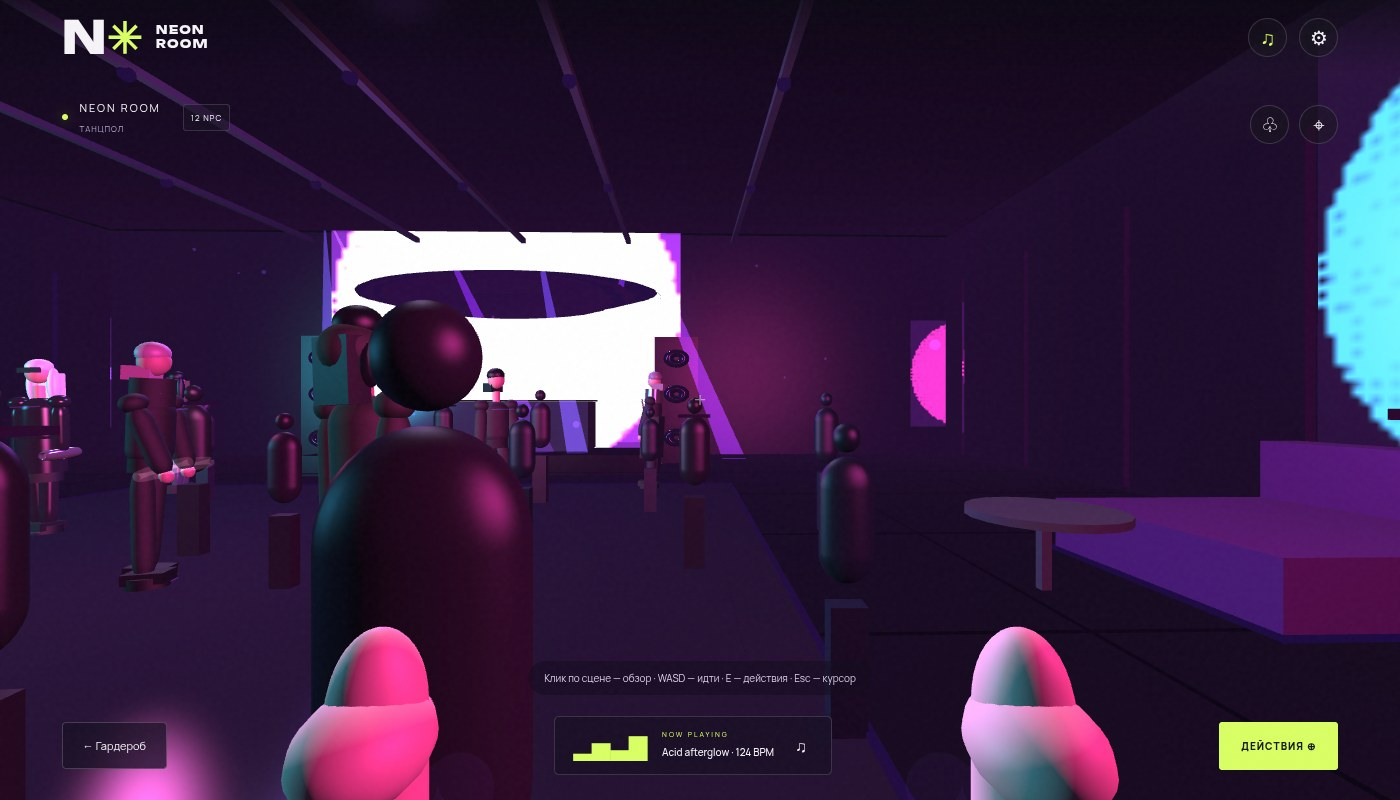
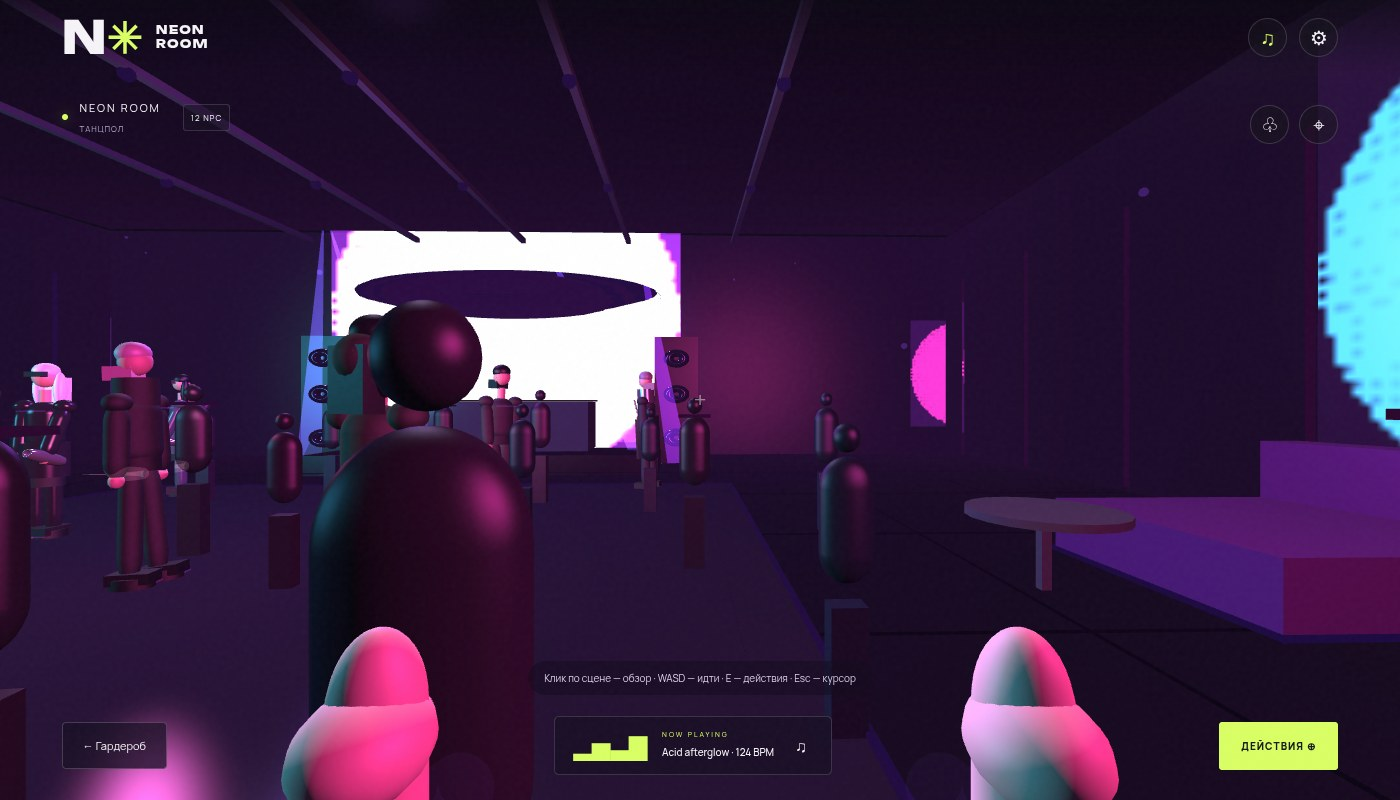
fix: address visual review nits and sharpen the heart gesture
- pc-shots.py docstring: JPEGs (not PNGs) and the .webp reference path
- VISUAL-NOTES.md: 14 JPEGs + two comparison sheets, drop repeated clause,
  soften the hand/bracelet claim and note the rectangular action panel
- app.js: drop the redundant second classList.add('playing')
- app.js: tilt the forearms inward and lift them for the heart gesture so the
  pose reads as two hands meeting
- PERFORMANCE.md: mark the GPU real-time expectation as unmeasured

diff --git a/playcanvas/app.js b/playcanvas/app.js
@@ -376,9 +376,14 @@ function animateHands(now, t, moving) {
   hands.setLocalPosition(0, moving && !calmMotion() ? Math.sin(t * 9) * .014 : 0, 0);
   const heart = hands.action === 'heart' && hands.until > now;
   hands.hands.forEach((h, i) => {
-    const rx = hands.until > now ? -.7 : dancing ? Math.sin(t * 6 + i) * .25 : 0;
-    h.setLocalEulerAngles(rx * 180 / Math.PI, 0, 0);
-    h.setLocalPosition(heart ? (i ? .12 : -.12) : h.baseX, h.baseY, h.baseZ);
+    const active = hands.until > now;
+    const rx = active ? -.7 : dancing ? Math.sin(t * 6 + i) * .25 : 0;
+    // Tilt the forearms towards each other so the heart gesture reads as two
+    // hands meeting, not two parallel bars.
+    const rz = heart ? (i ? -.62 : .62) : 0;
+    h.setLocalEulerAngles(rx * 180 / Math.PI, 0, rz * 180 / Math.PI);
+    if (heart) h.setLocalPosition(i ? .06 : -.06, h.baseY + .14, h.baseZ + .1);
+    else h.setLocalPosition(h.baseX, h.baseY, h.baseZ);
   });
 }
 
@@ -465,7 +470,6 @@ function enterClub() {
       hands.braceletMaterials.forEach(material => { material.diffuse = new pc.Color().fromString(color); material.update(); });
     }
     closeModal();
-    document.body.classList.add('playing');
     $('#game-ui').hidden = false;
     $('#action-wheel').hidden = true;
     camera.setPosition(0, 1.66, 10);

diff --git a/scripts/pc-shots.py b/scripts/pc-shots.py
@@ -2,9 +2,10 @@
 """Capture comparison screenshots of the PlayCanvas port.
 
 Serves the built site, drives the full onboarding, then poses the camera inside
-the club and saves a set of 1400x800 PNGs to playcanvas/screenshots/. The
-meeting shots reproduce the composition of reference/club-meeting-reference.jpg:
-a close NPC, the action wheel on the right and the first-person heart gesture.
+the club and saves 14 1400x800 JPEGs plus two reference comparison sheets to
+playcanvas/screenshots/. The meeting shots reproduce the composition of
+playcanvas/reference/club-meeting-reference.webp: a close NPC, the action wheel
+on the right and the first-person heart gesture.
 
 Usage:
     python3 scripts/pc-shots.py [--dir dist] [--out playcanvas/screenshots]

diff --git a/playcanvas/VISUAL-NOTES.md b/playcanvas/VISUAL-NOTES.md
@@ -2,8 +2,8 @@
 
 ## Reference
 
-`reference/club-meeting-reference.webp` is the mood reference from the brief
-(`reference/club-meeting-reference.webp` is the original). It shows the target:
+`reference/club-meeting-reference.webp` is the mood reference from the brief.
+It shows the target:
 a crowded neon club washed in hot magenta on one side and electric cyan on the
 other, a platinum-haired NPC in dark glossy leather and shades, the player's
 first-person hands and bracelets forming a heart, and the round action wheel on
@@ -14,7 +14,8 @@ the right with heart / wave / dance / drink plus the "people" button.
 `scripts/pc-shots.py` serves the built site, drives the whole onboarding flow
 (headless Chromium + SwiftShader), poses the debug camera surface
 (`window.__neonRoom.pose / focus / act`), triggers the action wheel and gestures,
-and writes 14 PNGs plus a manifest to `screenshots/`:
+and writes 14 JPEGs, two reference comparison sheets and a manifest to
+`screenshots/`:
 
 | File | What it shows |
 | --- | --- |
@@ -40,15 +41,17 @@ capture the WebGL frame; normal play keeps the faster default.
 - **Palette and light:** hot magenta vs cyan wash, violet haze, acid-green UI
   accents, glossy dark materials with neon trim.
 - **Composition:** a close NPC in dark leather with platinum hair and shades,
-  first-person hands and bracelets in the foreground, the glowing action wheel
-  on the right, the people control at the lower right.
+  first-person arm shapes in the foreground, the action panel on the right, the
+  people control at the lower right. (At this scale the hands read as stylised
+  arm shapes rather than recognisable fingers and bracelets.)
 - **Scene:** dense crowd around the dancefloor, bar line with glowing cups,
   lounge booths, DJ stage with rings and speakers, ceiling truss.
 
 ## What differs
 
 - The port is built from PlayCanvas primitives, so people, stage and furniture
-  are stylised low-poly shapes rather than the photoreal render of the brief.
+  are stylised low-poly shapes rather than the photoreal render of the brief;
+  the action control is a rectangular panel, not the brief's radial wheel.
 - Crowd density is faked with ~26 non-interactive silhouettes; the 12
   interactive NPCs from the spec are unchanged.
 - God rays, depth of field and bloom from the reference are approximated with

diff --git a/playcanvas/PERFORMANCE.md b/playcanvas/PERFORMANCE.md
@@ -30,8 +30,8 @@ arm64, viewport 1280×800, device pixel ratio 1.
 Both builds are far below real time because the rasteriser is software. The
 relative result is the meaningful one: at the same viewport and with the same
 scene concept, the PlayCanvas build renders about **1.6× faster** than the
-Three.js prototype. On GPU hardware this scene (≈550 draw calls, shared
-low-poly materials) is comfortably real-time.
+Three.js prototype. The scene (≈550 draw calls, shared low-poly materials) is
+light enough that GPU hardware should handle it, but no GPU run was measured.
 
 `npm run smoke:pc` samples PlayCanvas' own counter while also driving input, so
 it reports a lower median (≈1.5 fps) than the dedicated bench pass; both agree
